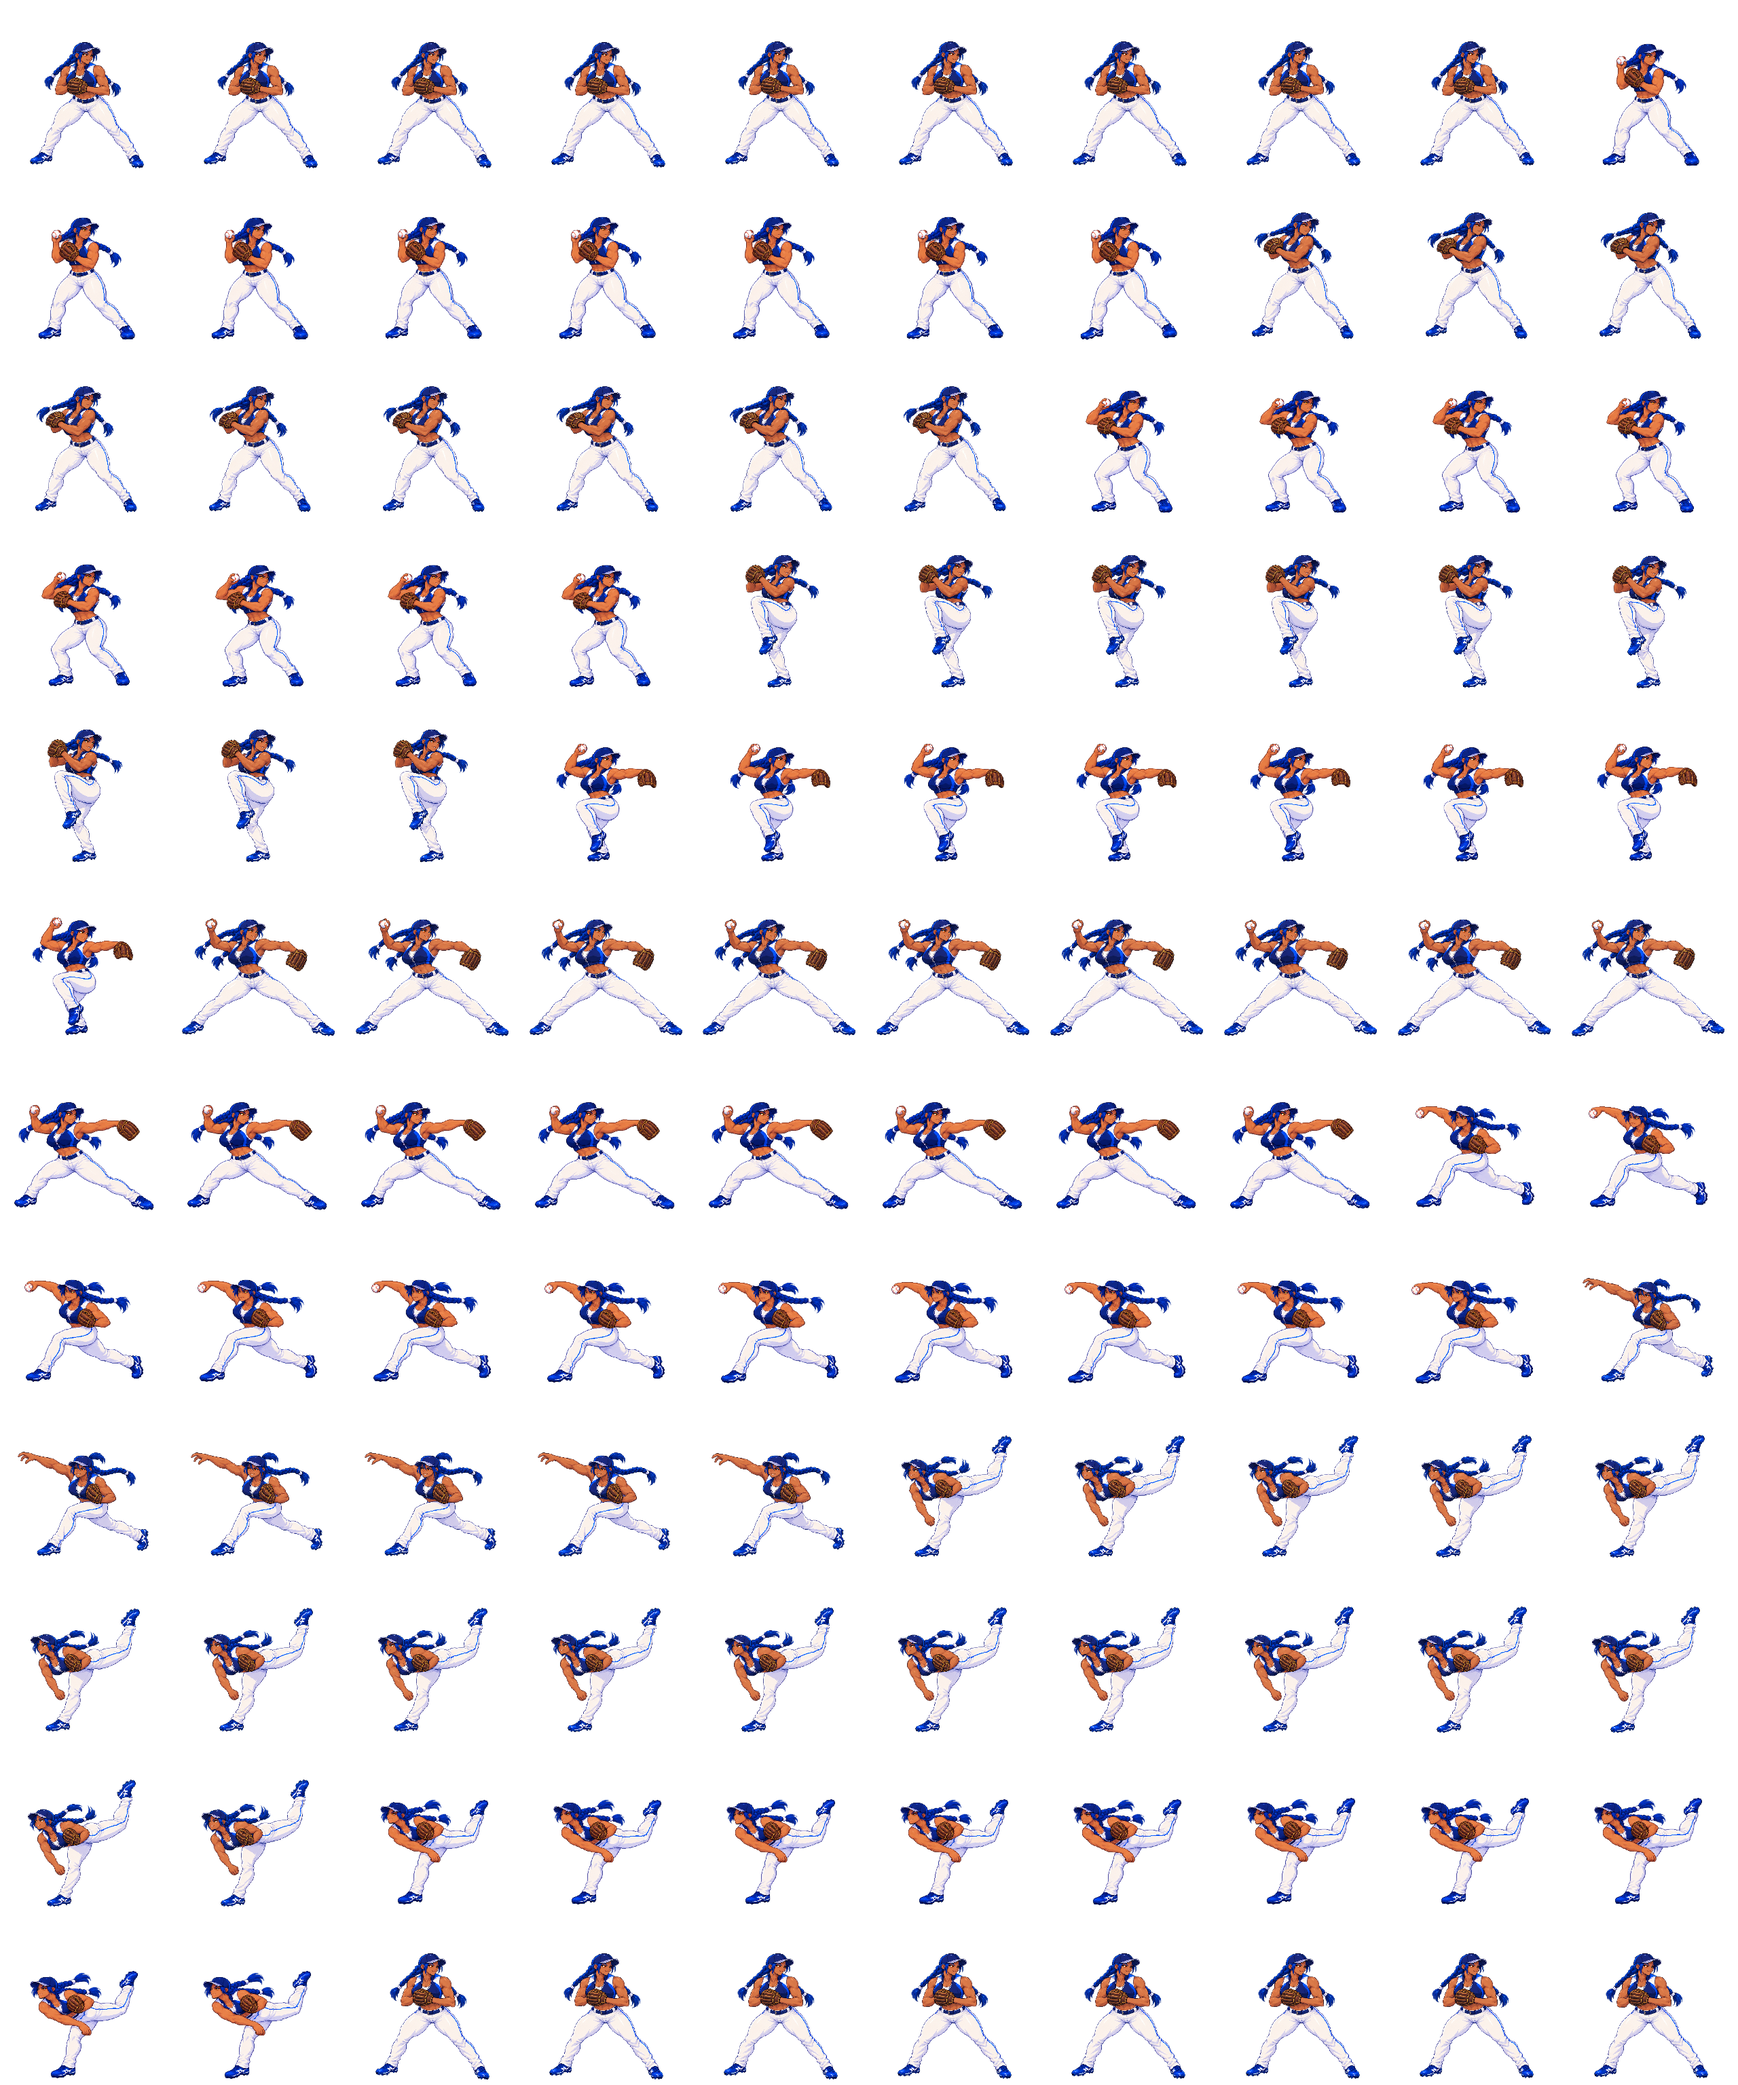
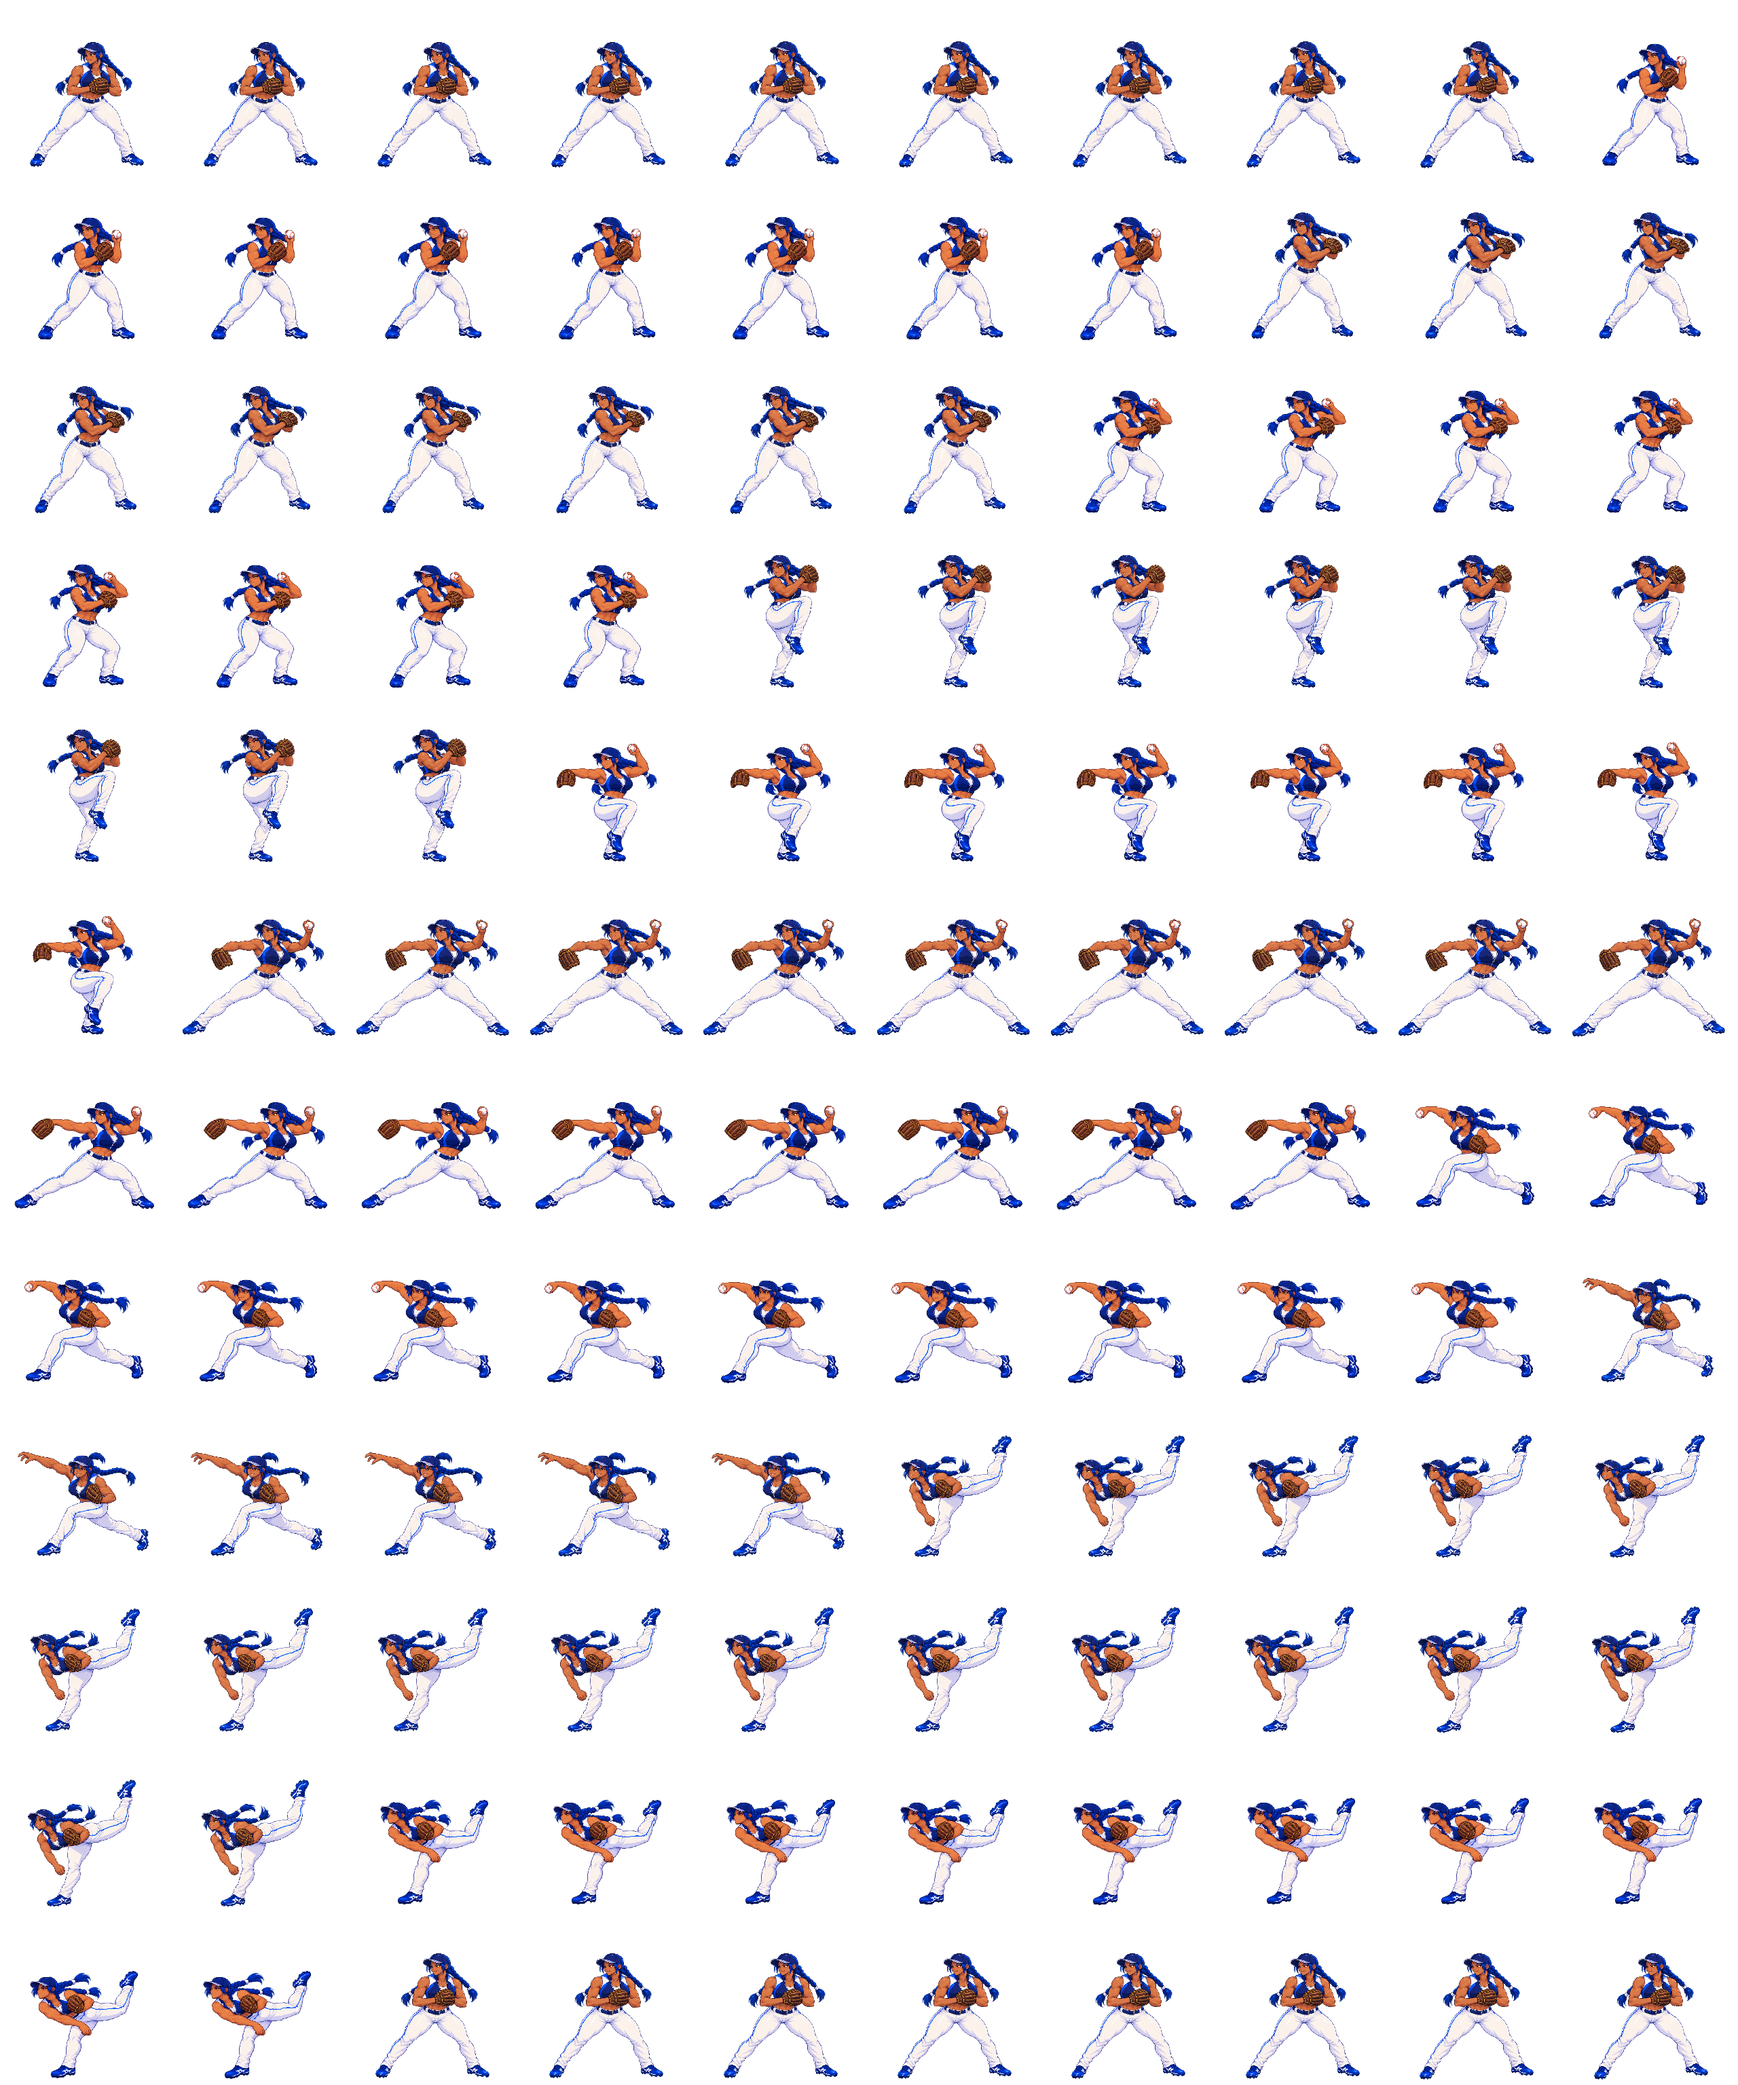
fix(art): face Cobalt Impact and Neon Trick left through the whole windup
Codex work committed on its behalf (its push hit a usage limit). Two pitchers turned
toward screen-right during the windup before releasing left; their affected pose
silhouettes are normalized during atlas assembly and their previews and 120-frame
packages rebuilt. Frame size, count, timing, release frame and transparency unchanged;
corrections listed in the manifests. 588/588 tests and production build pass.

diff --git a/tests/pitcher-roster-sd.test.js b/tests/pitcher-roster-sd.test.js
@@ -4,6 +4,10 @@ import fs from 'node:fs';
 const root=new URL('../assets/pitcher-sd-v2/',import.meta.url);
 const roster=JSON.parse(fs.readFileSync(new URL('../assets/pitcher-mobs-v1/roster.json',import.meta.url),'utf8'));
 const remaining=roster.filter(entry=>entry.id!=='regular-01-red-rush');
+const expectedFacingCorrections={
+  'elite-01-cobalt-impact':['keys:0','keys:1','keys:2','keys:3','bridges:0','bridges:1','bridges:2','bridges:3'],
+  'elite-02-neon-trick':['keys:0','keys:1','keys:2','bridges:0','bridges:1'],
+};
 
 const dimensions=file=>{
   const data=fs.readFileSync(new URL(file,root));
@@ -26,6 +30,7 @@ describe('remaining pitcher SD roster',()=>{
       expect(manifest.character).toBe(entry.id);
       expect(manifest.facing).toBe('screen-left');
       expect(manifest.throws).toBe('screen-left');
+      expect(manifest.facingCorrections).toEqual(expectedFacingCorrections[entry.id]??[]);
       expect(manifest.frameCount).toBe(120);
       expect(manifest.uniqueFrameCount).toBe(120);
       expect(manifest.authoredPoseCount).toBe(12);
@@ -37,3 +42,4 @@ describe('remaining pitcher SD roster',()=>{
     }
   });
 });
+

diff --git a/scripts/build-pitcher-roster-sd.py b/scripts/build-pitcher-roster-sd.py
@@ -15,7 +15,7 @@ import math
 from pathlib import Path
 
 import numpy as np
-from PIL import Image, ImageChops, ImageFilter
+from PIL import Image, ImageChops, ImageFilter, ImageOps
 
 ROOT = Path(__file__).resolve().parents[1]
 ASSET = ROOT / "assets" / "pitcher-sd-v2"
@@ -47,6 +47,13 @@ TIMELINE = [
     ("keys", 0, "reset", 8),
 ]
 assert sum(item[3] for item in TIMELINE) == FRAMES
+
+# These authored windup poses look right before the leftward release. Mirror
+# only the affected silhouettes, preserving the remaining pose art and timing.
+FACING_CORRECTIONS = {
+    "elite-01-cobalt-impact": {"keys": (0, 1, 2, 3), "bridges": (0, 1, 2, 3)},
+    "elite-02-neon-trick": {"keys": (0, 1, 2), "bridges": (0, 1)},
+}
 
 
 def connected_silhouettes(sheet: Image.Image) -> list[Image.Image]:
@@ -126,6 +133,8 @@ def fitted_poses(character: str) -> list[Image.Image]:
         if sheet.size != (1536, 1024):
             raise ValueError(f"{filename}: expected 1536x1024, got {sheet.size}")
         sheets[kind] = connected_silhouettes(sheet)
+        for pose_index in FACING_CORRECTIONS.get(character, {}).get(kind, ()):
+            sheets[kind][pose_index] = ImageOps.mirror(sheets[kind][pose_index])
 
     # A single scale is used for all poses of a character. The bent stride
     # therefore looks shorter than the upright windup, with no size popping.
@@ -226,6 +235,11 @@ def build(character: str, loose_frames: bool = False) -> None:
         "frameSize": [SIZE, SIZE], "atlas": f"atlases/{atlas_name}",
         "atlasColumns": COLS, "atlasRows": ROWS,
         "authoredPoseCount": len(poses), "keyPoses": markers,
+        "facingCorrections": [
+            f"{kind}:{index}"
+            for kind, indices in FACING_CORRECTIONS.get(character, {}).items()
+            for index in indices
+        ],
     }
     (ASSET / f"{character}-manifest.json").write_text(
         json.dumps(manifest, ensure_ascii=False, indent=2) + "\n", encoding="utf-8")
@@ -248,3 +262,4 @@ def main() -> None:
 
 if __name__ == "__main__":
     main()
+

diff --git a/assets/pitcher-sd-v2/IMPACT_ANALYSIS.md b/assets/pitcher-sd-v2/IMPACT_ANALYSIS.md
@@ -15,3 +15,7 @@ Scope: create source pose sheets and 120-frame transparent atlases for all 11 pi
 | Build / deploy | Impact | 11 PNG atlases are present as assets but not yet imported by Vite. Run production build to catch packaging problems. |
 
 Quality gate: inspect face/throw direction, transparent cutouts, pose boundaries, anticipation/stride/release/follow-through, and game-size readability. The authored poses are the art source; the 120-frame atlases are a deterministic playback package.
+
+## Direction correction (2026-09-25)
+
+Two pitchers, Cobalt Impact and Neon Trick, turn toward screen-right during their windup before releasing left. Normalize only their affected pose silhouettes during atlas assembly, then rebuild their previews and 120-frame packages. This changes no UI, input, game balance, save/load, mobile viewport, scrolling, or existing user flow. The affected surface is the isolated art build output; keep frame dimensions, count, timing, release frame, and transparency unchanged. Regression check the correction list in manifests, visually inspect every affected pose at game size, run the complete test suite, smoke reports, and production build.
